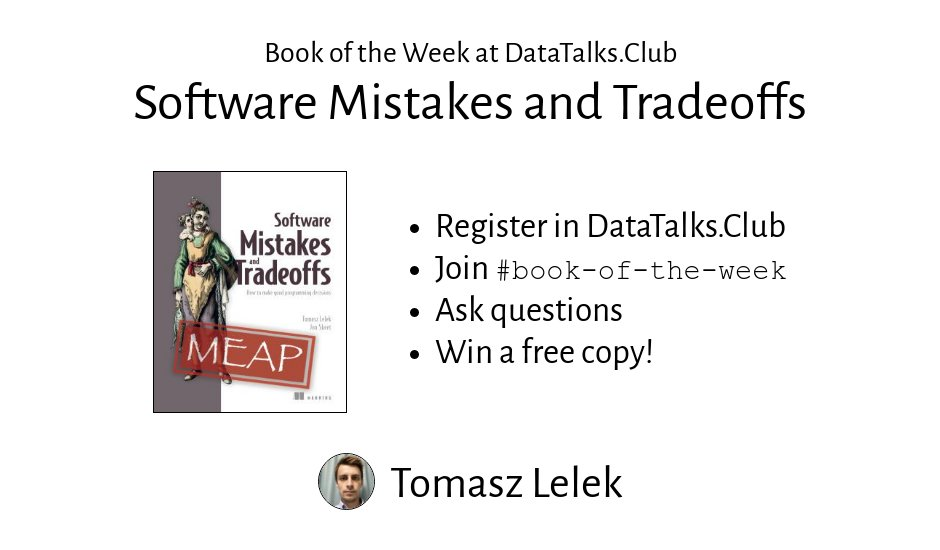
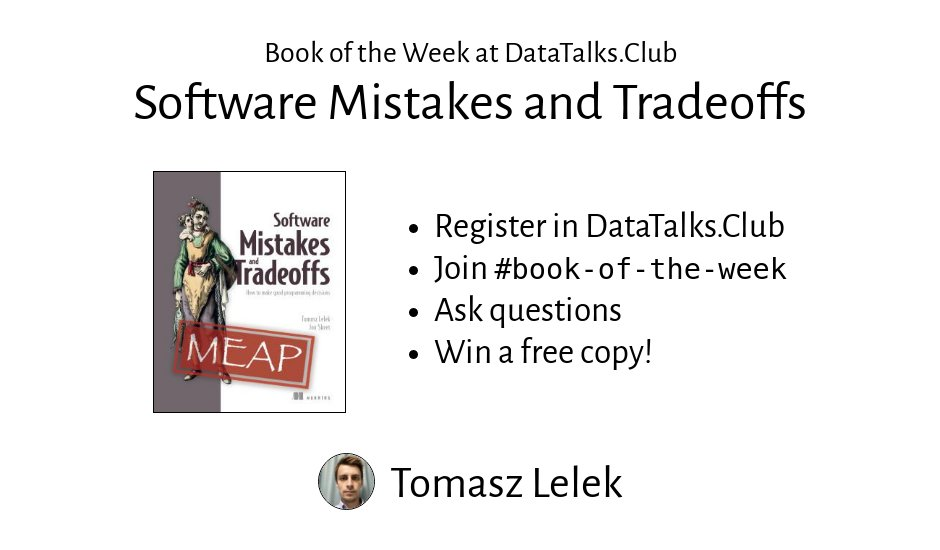
more books

diff --git a/previews/render.js b/previews/render.js
@@ -17,7 +17,7 @@ const render = async (config, output) => {
       height: 550,
       isLandscape: true
     },
-    executablePath: 'google-chrome-stable',
+    executablePath: 'chromium-browser',
     args: ['--no-sandbox'],
   });
 

diff --git a/previews/render_book.js b/previews/render_book.js
@@ -17,7 +17,7 @@ const render = async (config, output) => {
       height: 550,
       isLandscape: true
     },
-    executablePath: 'google-chrome-stable',
+    executablePath: 'chromium-browser',
     args: ['--no-sandbox'],
   });
 

diff --git a/previews/render_podcast.js b/previews/render_podcast.js
@@ -17,7 +17,7 @@ const render = async (config, output) => {
       height: 550,
       isLandscape: true
     },
-    executablePath: 'google-chrome-stable',
+    executablePath: 'chromium-browser',
     args: ['--no-sandbox'],
   });
 

diff --git a/_books/20211004-transfer-learning-in-action.md b/_books/20211004-transfer-learning-in-action.md
@@ -1,0 +1,16 @@
+---
+title: "Transfer Learning in Action"
+description: "Book of the Week. Transfer Learning in Action by Raghav Bali"
+cover: "images/books/20211004-transfer-learning-in-action/cover.jpg"
+image: "images/books/20211004-transfer-learning-in-action/preview.jpg"
+start: 2021-10-04 00:00:00
+end: 2021-10-08 22:59:58
+authors: [Dipanjan Sarkar, raghavbali]
+links: 
+  - text: Book's page
+    link: https://www.manning.com/books/transfer-learning-in-action
+  - text: Book's GitHub repository
+    link: https://github.com/dipanjanS/transfer-learning-in-action
+---
+
+Transfer Learning in Action shows you how using pre-trained models can massively improve the accuracy and performance of your machine learning projects. Focused on the real-world applications of transfer learning, you’ll explore how to enhance everything from computer vision to natural language processing and beyond. Master hands-on techniques taken from the latest research, and discover how you can customize open source models for your specific needs.

diff --git a/_books/20210927-effective-data-science-infrastructure.md b/_books/20210927-effective-data-science-infrastructure.md
@@ -8,11 +8,9 @@ end: 2021-10-01 22:59:58
 authors: [villetuulos]
 links: 
   - text: Book's page
-    link: TODO
-  - text: Book's website
-    link: TODO
+    link: https://www.manning.com/books/effective-data-science-infrastructure
   - text: Book's GitHub repository
-    link: TODO
+    link: https://github.com/outerbounds/dsbook
 ---
 
-TODO
+Effective Data Science Infrastructure: How to make data scientists more productive is a hands-on guide to assembling infrastructure for data science and machine learning applications. It reveals the processes used at Netflix and other data-driven companies to manage their cutting edge data infrastructure. In it, you’ll master scalable techniques for data storage, computation, experiment tracking, and orchestration. You’ll also learn how to collaborate with data scientists to deliver exactly what they need to succeed.

diff --git a/_people/raghavbali.md b/_people/raghavbali.md
@@ -1,0 +1,11 @@
+---
+short: raghavbali
+title: "Raghav Bali"
+picture: "images/authors/raghavbali.jpg"
+github: raghavbali
+twitter: rghv_bali
+linkedin: baliraghav
+
+---
+
+Raghav Bali is a Senior Data Scientist at Optum (UnitedHealth Group), one the world's largest health care organizations. He has over ten years experience in the research and development of enterprise-level solutions using machine learning, deep learning, and natural language processing. He is the author of multiple machine learning papers, books, and patents.
